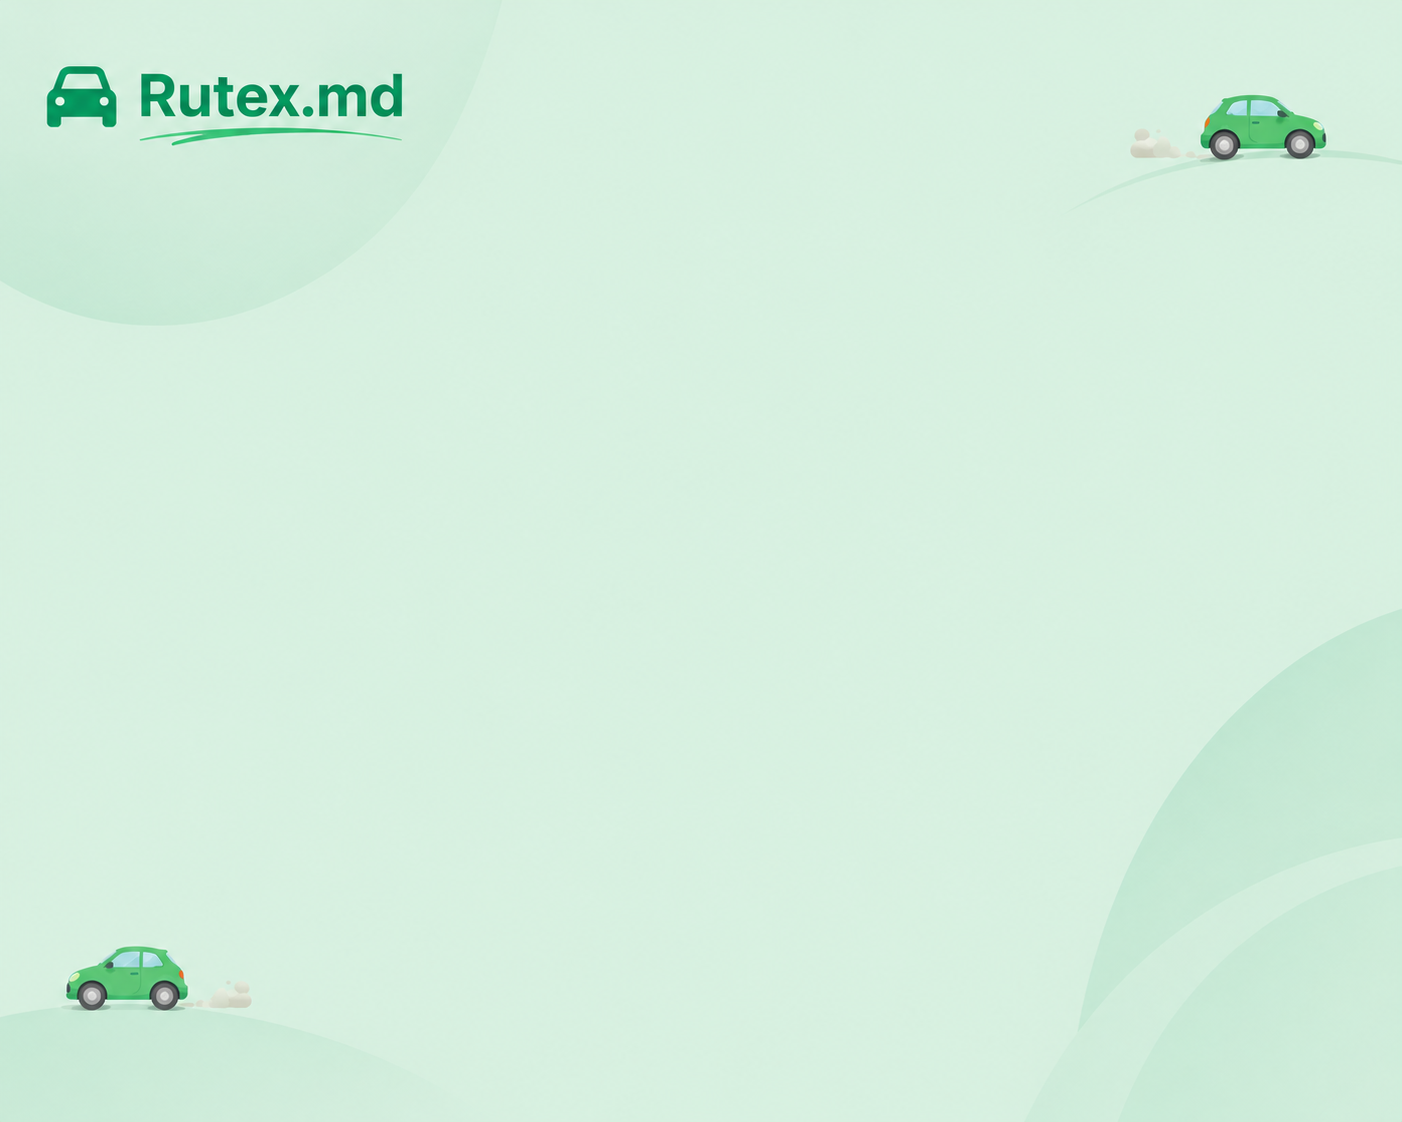
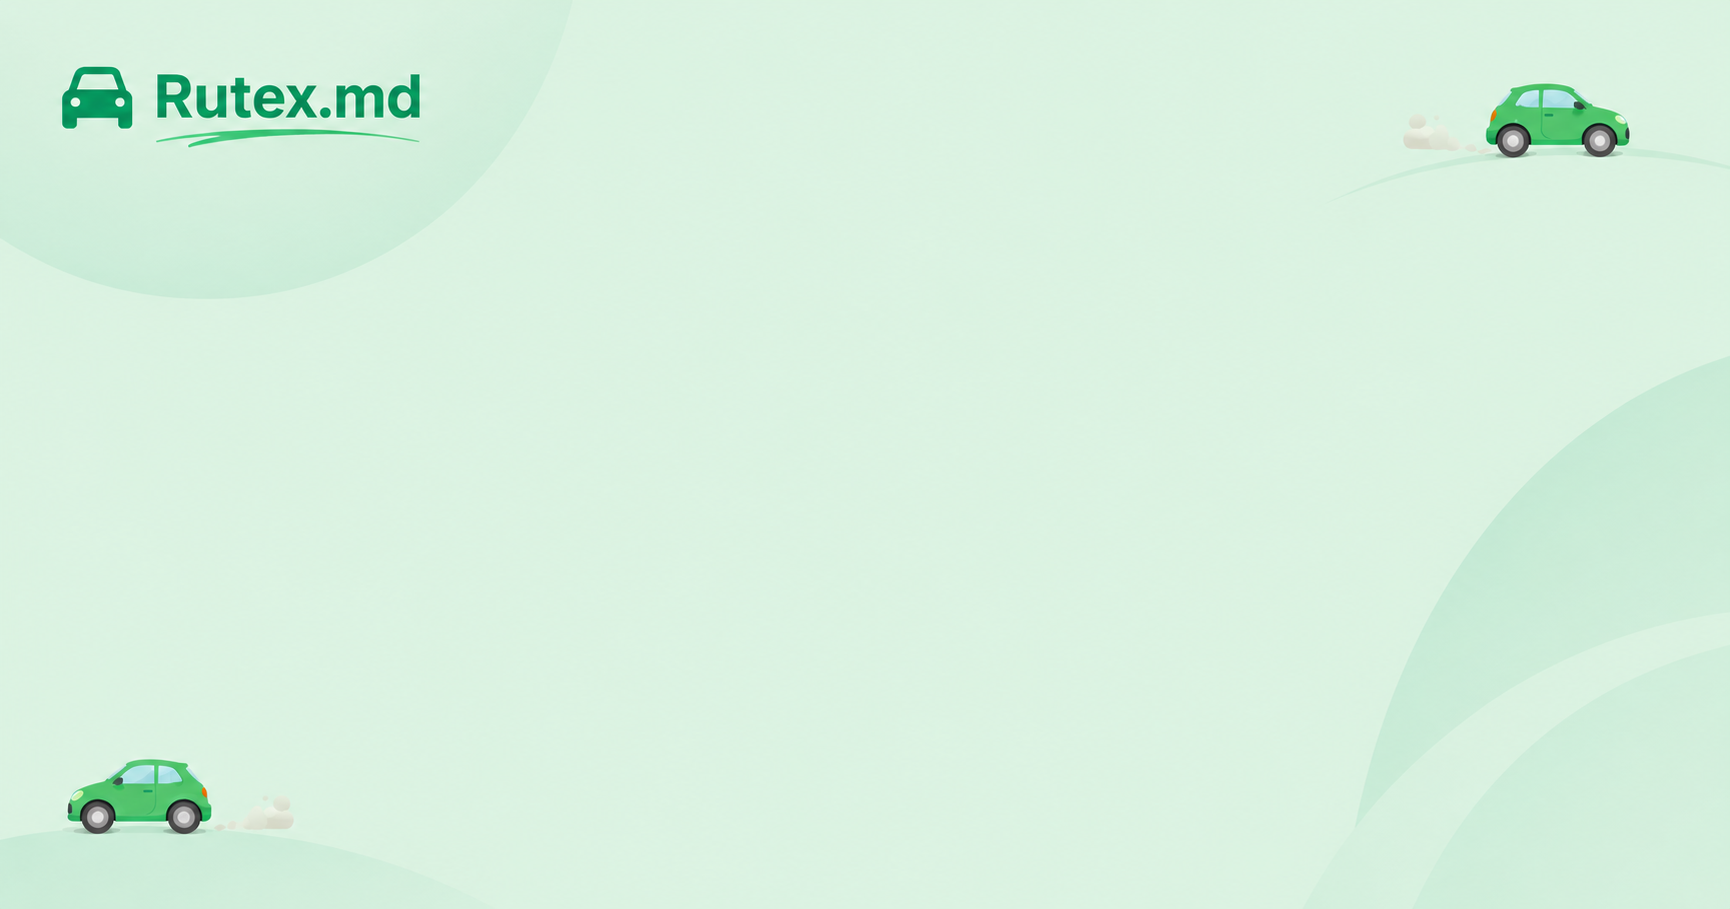
Editarea pozei pentru distribuirea pe facebook

diff --git a/src/main/resources/templates/ride-details.html b/src/main/resources/templates/ride-details.html
@@ -11,6 +11,8 @@
     <meta property="og:description" th:content="${rideSeoDescription != null ? rideSeoDescription : 'Vezi detaliile cursei pe Rutex.'}">
     <meta property="og:url" th:content="${canonicalRideUrl}">
     <meta property="og:image" th:content="${rideShareImageUrl}">
+    <meta property="og:image:width" content="1200">
+    <meta property="og:image:height" content="630">
     <meta property="og:image:alt" th:content="${rideSeoTitle != null ? rideSeoTitle : 'Cursă disponibilă pe Rutex'}">
     <meta name="twitter:card" content="summary_large_image">
     <meta name="twitter:title" th:content="${rideSeoTitle != null ? rideSeoTitle : 'Detalii cursa - Rutex'}">

diff --git a/src/main/java/com/scutelnic/rutex/service/FacebookPagePostService.java b/src/main/java/com/scutelnic/rutex/service/FacebookPagePostService.java
@@ -225,8 +225,8 @@ public class FacebookPagePostService {
             background = null;
         }
 
-        int width = background != null ? background.getWidth() : Math.max(800, imageWidth);
-        int height = background != null ? background.getHeight() : Math.max(420, imageHeight);
+        int width = Math.max(800, imageWidth);
+        int height = Math.max(420, imageHeight);
 
         BufferedImage image = new BufferedImage(width, height, BufferedImage.TYPE_INT_RGB);
         Graphics2D g = image.createGraphics();
@@ -234,7 +234,7 @@ public class FacebookPagePostService {
         g.setRenderingHint(RenderingHints.KEY_ANTIALIASING, RenderingHints.VALUE_ANTIALIAS_ON);
 
         if (background != null) {
-            g.drawImage(background, 0, 0, null);
+            g.drawImage(background, 0, 0, width, height, null);
         } else {
             g.setColor(new Color(209, 250, 229));
             g.fillRect(0, 0, width, height);
@@ -259,15 +259,18 @@ public class FacebookPagePostService {
 
         String fromMain = extractMainLocation(safe(ride.getFromLocation()));
         String toMain = extractMainLocation(safe(ride.getToLocation()));
-        drawRoute(g, fromMain, toMain, isRu, boldFont, regularFont, routeText, secondaryText, accent, width, height);
+        int[] routeCenters = drawRoute(g, fromMain, toMain, isRu, boldFont, regularFont, routeText,
+            secondaryText, accent, width, height);
 
         String locationSubtitle = extractRestLocation(safe(ride.getToLocation()));
+        int locationSubtitleCenter = routeCenters[1];
         if (locationSubtitle.isBlank()) {
             locationSubtitle = extractRestLocation(safe(ride.getFromLocation()));
+            locationSubtitleCenter = routeCenters[0];
         }
         if (!locationSubtitle.isBlank()) {
-            drawCenteredText(g, locationSubtitle, regularFont.deriveFont(Font.PLAIN, height * 0.035f), secondaryText,
-                width, (int) (height * 0.39));
+            drawCenteredTextAt(g, locationSubtitle, regularFont.deriveFont(Font.PLAIN, height * 0.035f),
+                secondaryText, locationSubtitleCenter, (int) (height * 0.39));
         }
 
         Locale locale = isRu ? Locale.forLanguageTag("ru-RU") : Locale.forLanguageTag("ro-RO");
@@ -278,7 +281,7 @@ public class FacebookPagePostService {
             ? (isRu ? "Гибкое время" : "Oră flexibilă")
             : (ride.getDepartureTime() != null ? ride.getDepartureTime().format(timeFormatter) : "-");
 
-        int cardWidth = (int) (width * 0.28);
+        int cardWidth = (int) (width * 0.20);
         int cardHeight = (int) (height * 0.165);
         int cardGap = (int) (width * 0.025);
         int cardsTop = (int) (height * 0.49);
@@ -327,7 +330,7 @@ public class FacebookPagePostService {
         }
     }
 
-    private void drawRoute(Graphics2D g,
+    private int[] drawRoute(Graphics2D g,
                            String from,
                            String to,
                            boolean isRu,
@@ -351,8 +354,11 @@ public class FacebookPagePostService {
             metrics = g.getFontMetrics(routeFont);
         }
 
-        int totalWidth = metrics.stringWidth(from) + metrics.stringWidth(to) + arrowWidth + arrowGap * 2;
+        int fromWidth = metrics.stringWidth(from);
+        int toWidth = metrics.stringWidth(to);
+        int totalWidth = fromWidth + toWidth + arrowWidth + arrowGap * 2;
         int x = (width - totalWidth) / 2;
+        int fromCenter = x + fromWidth / 2;
         int baseline = (int) (height * 0.33);
         Font labelFont = regularFont.deriveFont(Font.BOLD, height * 0.024f);
         FontMetrics labelMetrics = g.getFontMetrics(labelFont);
@@ -361,13 +367,13 @@ public class FacebookPagePostService {
         String toLabel = isRu ? "КУДА" : "PÂNĂ LA";
         g.setFont(labelFont);
         g.setColor(labelColor);
-        g.drawString(fromLabel, x + (metrics.stringWidth(from) - labelMetrics.stringWidth(fromLabel)) / 2,
+        g.drawString(fromLabel, x + (fromWidth - labelMetrics.stringWidth(fromLabel)) / 2,
             baseline - metrics.getAscent() - (int) (height * 0.012));
 
         g.setFont(routeFont);
         g.setColor(routeColor);
         g.drawString(from, x, baseline);
-        x += metrics.stringWidth(from) + arrowGap;
+        x += fromWidth + arrowGap;
 
         g.setColor(accentColor);
         g.setStroke(new BasicStroke(Math.max(5f, height * 0.009f), BasicStroke.CAP_ROUND, BasicStroke.JOIN_ROUND));
@@ -385,6 +391,7 @@ public class FacebookPagePostService {
         g.setFont(routeFont);
         g.setColor(routeColor);
         g.drawString(to, x, baseline);
+        return new int[]{fromCenter, x + toWidth / 2};
     }
 
     private void drawInfoCard(Graphics2D g,
@@ -465,6 +472,13 @@ public class FacebookPagePostService {
         g.setColor(color);
         FontMetrics metrics = g.getFontMetrics();
         g.drawString(text, (width - metrics.stringWidth(text)) / 2, baseline);
+    }
+
+    private void drawCenteredTextAt(Graphics2D g, String text, Font font, Color color, int centerX, int baseline) {
+        g.setFont(font);
+        g.setColor(color);
+        FontMetrics metrics = g.getFontMetrics();
+        g.drawString(text, centerX - metrics.stringWidth(text) / 2, baseline);
     }
 
     private String formatPassengerCount(int count, boolean isRu) {
